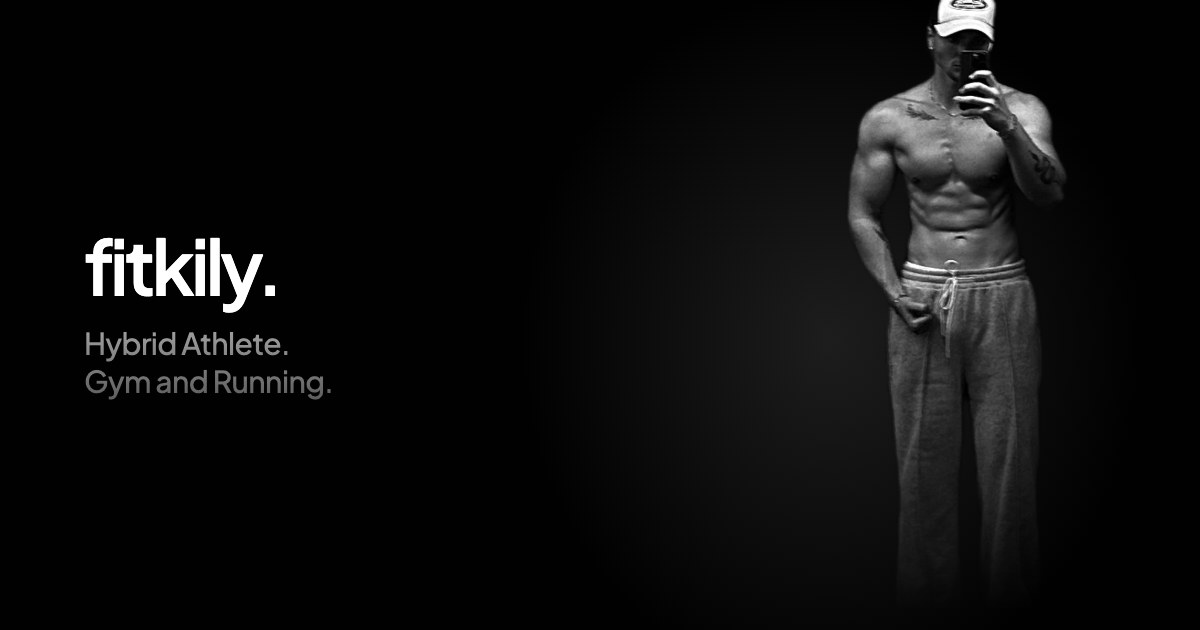
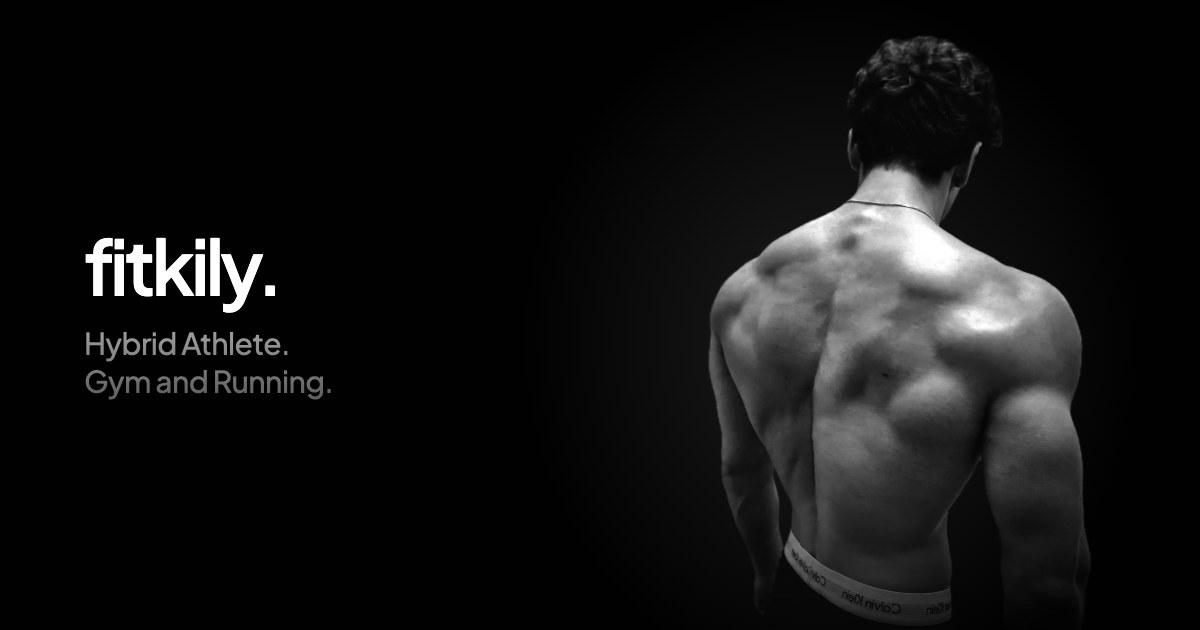
Vorschaubilder beim Teilen mit Rückenfoto neu gerendert
Claude-Session: https://claude.ai/code/session_01J1FNjjnh7hR53x8UGmg6mL

Changed region(s): [[0.5858, 0.0, 0.925, 0.9952]]

diff --git a/en/index.html b/en/index.html
@@ -11,7 +11,7 @@
 <meta property="og:url" content="https://fitkily.trevit.de/en/">
 <meta property="og:title" content="fitkily">
 <meta property="og:description" content="Hybrid Athlete. Gym and Running.">
-<meta property="og:image" content="https://fitkily.trevit.de/assets/og-en.jpg">
+<meta property="og:image" content="https://fitkily.trevit.de/assets/og-en.jpg?v=2">
 <meta property="og:image:width" content="1200">
 <meta property="og:image:height" content="630">
 <meta property="og:image:alt" content="Kily from fitkily in the gym">

diff --git a/index.html b/index.html
@@ -11,7 +11,7 @@
 <meta property="og:url" content="https://fitkily.trevit.de/">
 <meta property="og:title" content="fitkily">
 <meta property="og:description" content="Hybrid Athlete. Gym und Running.">
-<meta property="og:image" content="https://fitkily.trevit.de/assets/og.jpg">
+<meta property="og:image" content="https://fitkily.trevit.de/assets/og.jpg?v=2">
 <meta property="og:image:width" content="1200">
 <meta property="og:image:height" content="630">
 <meta property="og:image:alt" content="Kily von fitkily im Gym">
